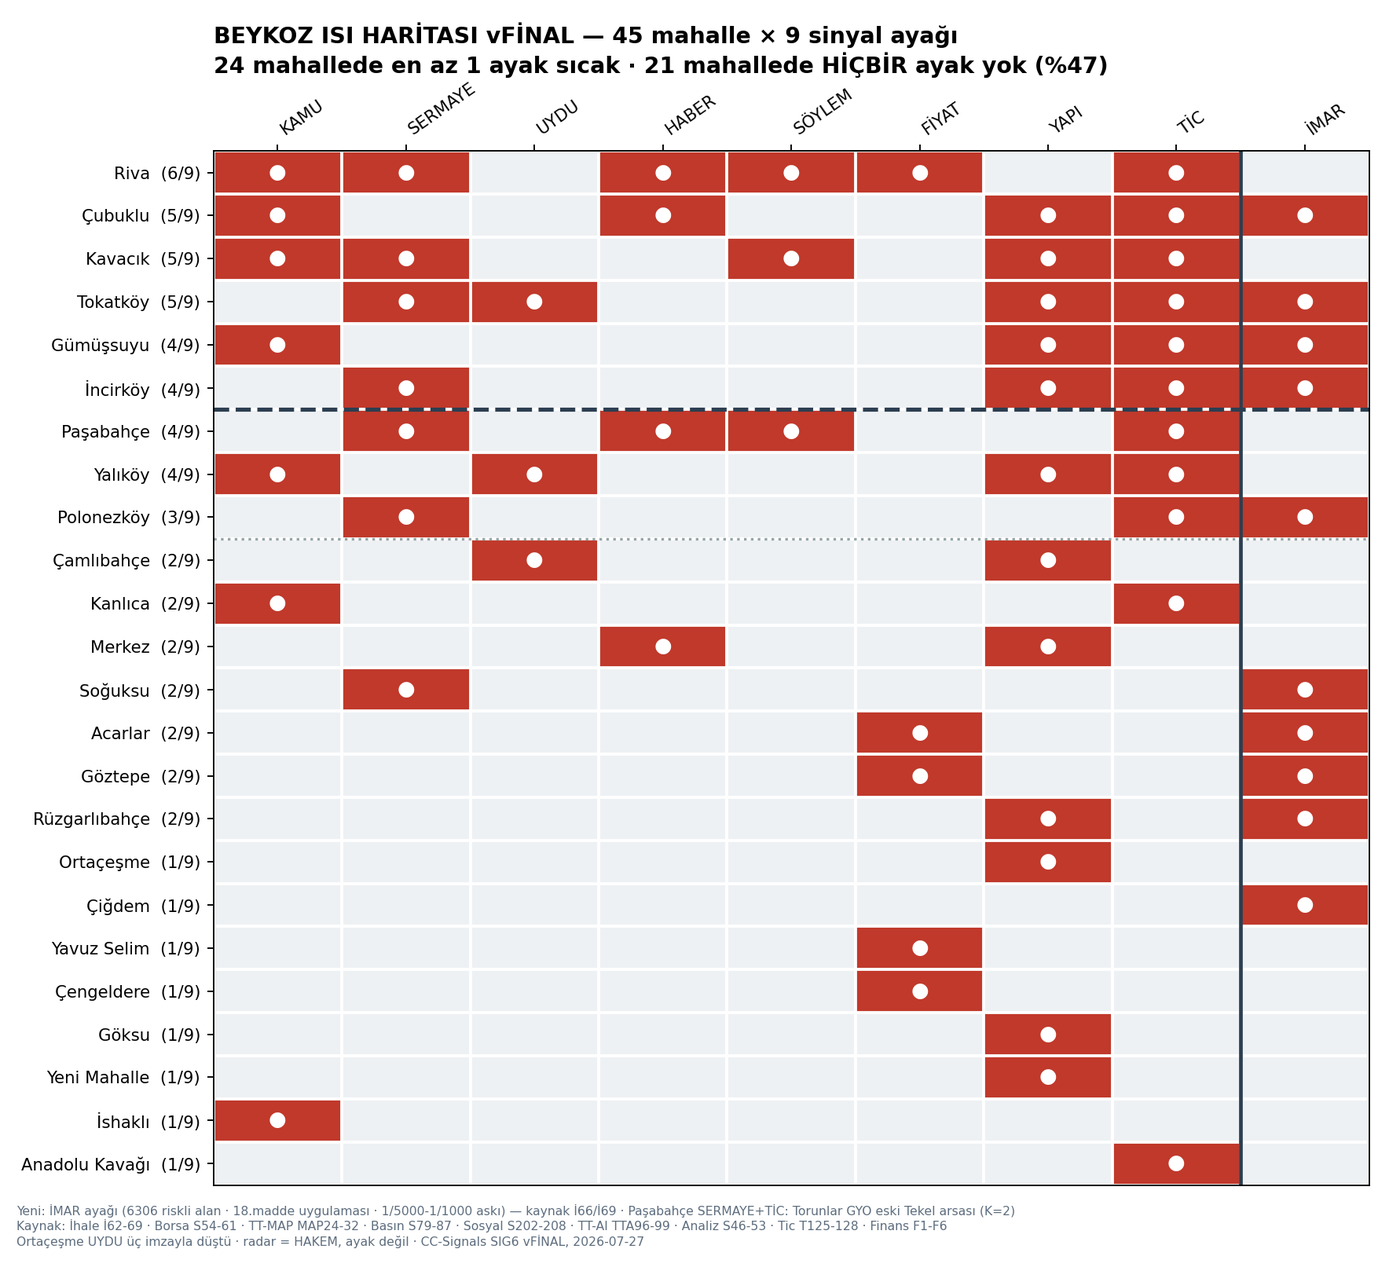
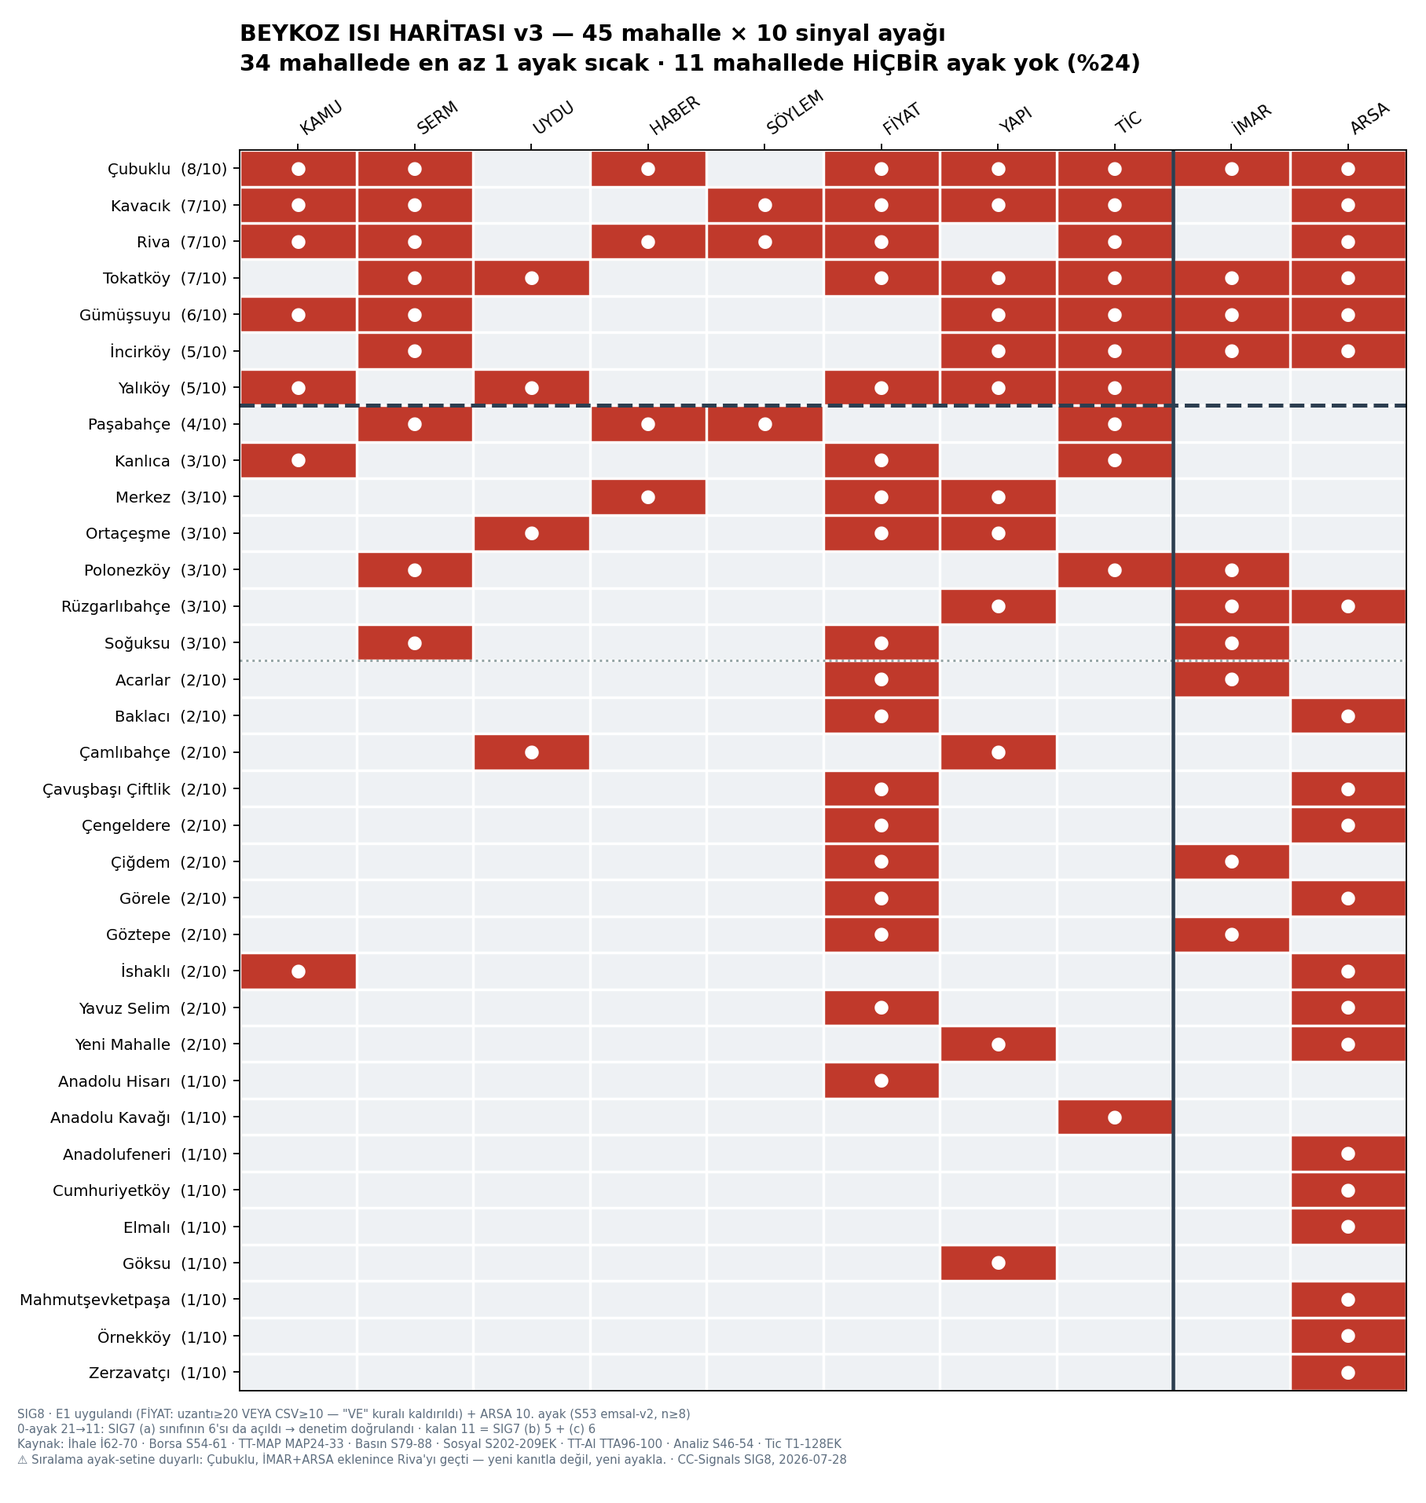
SIG8: sinyal-kanıtı v2 + E1/ARSA uygulaması
1) Isı v3 — E1 (FİYAT: uzKS>=20 VEYA CSV>=10, "VE" kaldırıldı) + ARSA
   10. ayak (S53 emsal-v2 n>=8). 0-ayak 21 -> 11 (%24).
   SIG7 denetimi doğrulandı: (a) sınıfının 6'sı da açıldı.
   UYARI: Çubuklu Riva'yı yeni kanıtla değil yeni ayakla geçti.
2) Sinyal-kanıtı v2 — sayfanın sorusu netleşti: "hangi bölgede, hangi
   tarihli olaydan sonra, m² + kira + brüt getiri + ödenme yılı ne?"
   13 satırlık bölge×tip×olay×getiri tablosu (yalnız S53 GÜÇLÜ hücreler).
   Şablon vakalar: Yavuz Selim %7,24/13,8y (hızlı amortisman adayı) ve
   Tokatköy %3,42/29,2y (7 ayak yanmış, getiri en düşük).
   ★ Örüntü: sinyal yoğunluğu ile getiri TERS gidiyor.
3) S54 düzeltmeleri: Cumhuriyet +8 ve Çiftlik +6 yanlış-pozitif elendi;
   17 mahalleye "tarandı-sıfır" damgası. S54'ün unicode bulgusu kayda
   geçti (mahalle_norm borcu).
4) Olay defteri senkron: BEY-18 Torunlar, BEY-19 Elmalı Barajı Havzası
   (TTA99 kritik-1 İSKİ havza sisteminin ilk fiilî uygulama örneği).
5) Basın haber-yoğunluğu ayağı tasarlandı ama ETKİNLEŞTİRİLMEDİ —
   sığ arşivi ağırlıklandırmak onu derin gösterir; arşiv derinliği
   bütçe kalemi olarak not edildi.

Changed region(s): [[0.0, 0.0, 0.9955, 1.0]]

diff --git a/beykoz_vaka/sig8_sinyal_kaniti_v2.md b/beykoz_vaka/sig8_sinyal_kaniti_v2.md
@@ -1,0 +1,241 @@
+# CC-Signals · SIG8 — SİNYAL KANITI v2
+## *"Hangi bölgede, hangi olaydan sonra, m² fiyatı ve amortisman nasıl davrandı?"*
+
+**Sprint:** SIG8 · **Tarih:** 2026-07-28 · **Üreten:** CC-Signals · **Denetleyen:** ☐ Üst Akıl
+**Dönem etiketi:** tüm m²/kira/getiri rakamları **`S48_UZANTI_2026-Haz-Tem`** · etiketsiz alıntılanamaz
+**Disiplin:** $0 · A04 · V16 · #21-B · #34 · SİLME-YOK
+
+---
+
+## 0. BU SAYFA NE ANLATIYOR — ve v1 neyi anlatamadı
+
+**v1'in kusuru:** *"Riva'da sinyal 2017'de göründü, 9 yıl 2 ay önden"* diyordu ama **9 yıl önden neyi gördüğümüzü** söylemiyordu. Yatırımcı için "öndelik" tek başına bir şey ifade etmez.
+
+**v2'nin sorusu tek:**
+
+> **Bir bölgede tarihli bir olay olduktan sonra, o bölgenin m² fiyatı, kirası ve amortisman süresi ne oldu?**
+
+Ve cevabı **tek tabloda** veriyor: **bölge × mülk tipi × olay × m² × kira × brüt getiri × ödenme yılı.**
+
+### ⚠ Sayfanın sınırı — önce bu
+
+| Sınır | Sonucu |
+|---|---|
+| **Beykoz için 2026-02 öncesi fiyat serisi YOK** (Analiz S51 kesin) | *"Olaydan sonra fiyat şu kadar arttı"* **hiçbir vakada söylenemez** |
+| Elimizdeki tek zaman farkı **4 ay** (Şub-May ↔ Haz-Tem 2026) | yalnız **iki dönem medyan farkı**, fiyat hareketi değil |
+| Getiri rakamları **ilan** fiyatı üzerinden, **brüt** | boşluk, aidat, vergi düşülmemiş; **net bunun belirgin altında** |
+| İlan bazlı fiyat takibi **n=1** (S51) | stokta kalma süresi, indirim izi **ölçülemiyor** |
+
+> ✅ **O hâlde ne söylüyoruz:** *"Olay şu tarihte oldu. Bugün o bölgede, o tipte m² şu, kira şu, brüt getiri şu, ödenme süresi şu."* **Olay ile bugünkü seviye arasındaki nedenselliği kurmuyoruz** — yan yana koyuyoruz ve okuru uyarıyoruz.
+
+---
+
+# 1. ★ ANA TABLO — bölge × tip × olay × getiri
+
+*(yalnız S53 **GÜÇLÜ** hücreler, n≥8 · sıralama: brüt getiri)*
+
+| Bölge | Tip | **Tarihli olay** | m² satılık | kira TL/m²/ay | **Brüt getiri** | **Ödenme** | Aday sınıfı |
+|---|---|---|---:|---:|---:|---:|---|
+| **Yavuz Selim** | villa | ⚖ **Çavuşbaşı plan davası REDDEDİLDİ** (2024-04, istinaf) — 6 mahallenin biri; planlar yürürlüğe döndü | 90.000 | 543 | **%7,24** | **13,8 yıl** | 🟢 **hızlı amortisman** |
+| **Acarlar** | konut-belirsiz | 🌲 özel orman (316/4 · ~1,8 M m² kat irtifaklı) · **1/5000 askıda** | 158.417 | 873 | %6,62 | 15,1 yıl | 🟢 hızlı amortisman |
+| **Göztepe** | villa | 🏛 **2760 ada 110 parsel 1/1000 KAUİP askıya çıktı** (21.07.2026) | 119.118 | 546 | %5,50 | 18,2 yıl | 🟡 orta |
+| **Kavacık** | daire | 🏗 **Kavacık Kavşağı imar planı** (Meclis 08.01.2026) + Medistate protokolü | 94.925 | 428 | %5,41 | 18,5 yıl | 🟡 orta |
+| **Acarlar** | daire | *(aynı olay — özel orman/askı)* | 227.600 | 1.000 | %5,27 | 19,0 yıl | 🟡 orta |
+| **Soğuksu** | daire | 💰 **Sur Yapı kentsel dönüşüm** girişi · **1/5000 askıda** | 151.724 | 650 | %5,14 | 19,5 yıl | 🟡 orta |
+| **Göztepe** | daire | *(aynı olay — 1/1000 askı)* | 110.000 | 450 | %4,91 | 20,4 yıl | 🟡 orta |
+| **Acarlar** | villa | *(aynı olay)* | 245.455 | 1.000 | **%4,89** | 20,5 yıl | 🔴 **yavaş** |
+| **Yalıköy** | daire | 🏫 Sait Taşçıoğlu İlkokulu **159,7 M TL** (2024) | 86.667 | 352 | %4,88 | 20,5 yıl | 🔴 yavaş |
+| **Riva** | villa | 🏠 **EKGYO yer teslimi 2025-04** · Metruk Otel→**Gençlik Kampı** 2026-07 · 3 mega proje | 164.141 | 633 | %4,63 | 21,6 yıl | 🔴 yavaş |
+| **Çiğdem** | daire | 🏘 **Maritza Vadi 2. Etap satışta** (Tem 2026) · 1/5000 askıda | 183.333 | 627 | %4,10 | 24,4 yıl | 🔴 yavaş |
+| **Çubuklu** | daire | 🎓 TAÜ kampüsü 19 ihale · 🏗 **riskli alan 5,6 ha, 18. madde askıda** | 138.014 | 405 | %3,52 | 28,4 yıl | 🔴 **en yavaş** |
+| **Tokatköy** | daire | 🏘 **EKGYO 2 etap teslim** (2022) · **dönüşüm alanı onaylı** · 1.071 tapu (29.06.2026) | 115.909 | 330 | **%3,42** | **29,2 yıl** | 🔴 **en yavaş** |
+
+**Referans çıpa:** İstanbul konut brüt getirisi **%6,09** (2026-Q2, TCMB, 34 çeyreklik seri) · dip 2022-Q2 %4,02.
+
+---
+
+# 2. İKİ ŞABLON VAKA — aynı madalyonun iki yüzü
+
+## 2.1 🟢 YAVUZ SELİM — *hızlı amortisman adayı*
+
+| | |
+|---|---|
+| **Olay** | ⚖ **2024-04:** Mimarlar Odası'nın Çavuşbaşı planlarına açtığı iptal davası **reddedildi**; 6 mahallenin (Çengeldere · Fatih · **Yavuz Selim** · Baklacı · Çiftlik · Görele) planları **yürürlüğe döndü** |
+| **Bugünkü tip-bazlı ölçüm** | villa satılık **90.000 TL/m²** · villa kira **543 TL/m²/ay** (n=12) |
+| **Brüt getiri** | **%7,24** — Beykoz'un ölçülmüş en yükseği, İstanbul çıpasının (%6,09) **1,2 katı** |
+| **Ödenme** | **13,8 yıl** |
+| **Arsa katmanı** | arsa satılık **30.943 TL/m² · n=37** — ilçenin en derin ikinci arsa hücresi |
+| **Isı** | 2/10 (FİYAT + ARSA) — kamu 0, sermaye 0, haber 0 |
+
+**Neden "hızlı amortisman adayı":** getiri yüksek çünkü **satış fiyatı düşük**, kira değil. Villa kirası (543) Göztepe'nin (546) neredeyse aynısı; ama satış fiyatı **90.000 ↔ 119.118** — yani **%25 daha ucuz.**
+
+> 🔴 **Ve madalyonun öbür yüzü — bunu atlamak yanlış olur:** Yavuz Selim aynı zamanda **§F4'te reel −%35,5** ile ilçenin en geride kalanı (nominal −%14,8, n 22→28, "sağlam" örneklem).
+> **İki okuma da aynı veriden çıkıyor:** *ucuz olduğu için getirisi yüksek* ↔ *ucuzluyor olduğu için riskli.* **SIG5'in "dip mi tuzak mı" sorusu tam burada ve hâlâ ayırt edilemedi.**
+> **Ayırt edici veri:** stokta kalma süresi (Analiz'de **n=1**, ölçülemiyor) · 3. dönem fiyat serisi · kamu/sermaye ayağının ısınıp ısınmayacağı.
+
+## 2.2 🔴 TOKATKÖY — *zincir tamamlandı, getiri en düşük*
+
+| | |
+|---|---|
+| **Olaylar (tarihli)** | 🏘 **2022-09/10:** EKGYO 1./2. Etap sözleşme **1,68 Mr TL** (yüklenici TURGUT) · **2026-01-08:** Meclis — dönüşüm alanı **onaylı ve yürürlükte** · **2026-06-29:** **1.071 tapu** hak sahiplerine teslim (CSB İstanbul) |
+| **Fiziksel** | NDVI **−0,134** — Beykoz'un **tek ölçülebilir yeşil kaybı** ⚠ *(kaybın çoğu 2015-20'de, sözleşmeden önce — zincir kurulmadı)* |
+| **Piyasa** | **15 ilan** "Emlak Konut projesi"ne atıflı, 15/15'i Tokatköy |
+| **Bugünkü ölçüm** | daire satılık **115.909 TL/m²** · kira **330 TL/m²/ay** |
+| **Brüt getiri** | **%3,42** — Beykoz'un **en düşüğü** |
+| **Ödenme** | **29,2 yıl** |
+| **Isı** | **7/10** — ilçenin en çok ayaklı üçüncüsü |
+
+> ★ **Sayfanın en öğretici satırı bu:** **Beykoz'da sinyali en çok yanan mahallelerden biri, getirisi en düşük olanıdır.**
+> **Sinyal yoğunluğu ≠ getiri.** Tokatköy'de sermaye geldi, dönüşüm onaylandı, tapular dağıtıldı, uydu değişimi ölçüldü, piyasada ilan çıktı — **on ayağın yedisi yandı** — ve brüt getiri **%3,42**, ödenme **29,2 yıl.**
+> **Muhtemel okuma (ölçüm değil, yorum):** olaylar **fiyata çoktan yansımış**; alıcı bugün *"olay olacak"* değil, *"olay oldu"* fiyatını ödüyor. **Bu bir hipotezdir** — doğrulaması, olay öncesi fiyat serisi gerektirir ve **o seri yok.**
+
+---
+
+# 3. ÜÇ ÖRÜNTÜ — tabloyu okuma anahtarı
+
+## 3.1 Getiri ile sinyal yoğunluğu **ters** gidiyor
+
+| Mahalle | Isı ayağı | Brüt getiri | Ödenme |
+|---|:-:|---:|---:|
+| Tokatköy | **7/10** | %3,42 | 29,2 yıl |
+| Çubuklu | **8/10** | %3,52 | 28,4 yıl |
+| Riva | **7/10** | %4,63 | 21,6 yıl |
+| Kavacık | **7/10** | %5,41 | 18,5 yıl |
+| **Yavuz Selim** | **2/10** | **%7,24** | **13,8 yıl** |
+| **Acarlar** *(konut-belirsiz)* | 2/10 | %6,62 | 15,1 yıl |
+
+> **Isı haritasının en yüksek dördü, getiri listesinin alt yarısında.** İki uçtaki mahalleler (Yavuz Selim, Acarlar) **2 ayaklı.**
+> ⚠ **Bu bir tavsiye değil, bir ölçüm:** yüksek getiri **düşük satış fiyatından** geliyor ve düşük fiyatın kendisi bir risk göstergesi olabilir (Yavuz Selim reel −%35,5). **İkisi aynı anda doğru.**
+
+## 3.2 Aynı mahallede tip farkı, getiriyi **1,4 kata** kadar değiştiriyor
+
+| Mahalle | Tip | m² | Getiri |
+|---|---|---:|---:|
+| Acarlar | konut-belirsiz | 158.417 | **%6,62** |
+| Acarlar | daire | 227.600 | %5,27 |
+| Acarlar | villa | 245.455 | **%4,89** |
+| Göztepe | villa | 119.118 | **%5,50** |
+| Göztepe | daire | 110.000 | %4,91 |
+
+> **Acarlar'da kira üç tipte de ~1.000 TL/m²/ay** — fark tamamen satış fiyatından. **"Acarlar'ın getirisi"** diye tek sayı yoktur; **tip sorulmadan getiri konuşulamaz.**
+
+## 3.3 Olay tipi ile getiri arasında **görünür bir ilişki yok**
+
+| Olay tipi | Örnek | Getiri aralığı |
+|---|---|---|
+| Yargı (plan onandı) | Yavuz Selim | **%7,24** |
+| İmar askısı | Göztepe · Soğuksu · Çiğdem | %4,10 – %5,50 |
+| Kamu mega yatırım | Çubuklu · Yalıköy | %3,52 – %4,88 |
+| Kentsel dönüşüm tamamlandı | Tokatköy | **%3,42** |
+
+> **Dört olay tipi, dört farklı getiri seviyesi — ama örneklem her hücrede 1-3 mahalle.** *"İmar askısı getiriyi şöyle etkiler"* denemez. **Bu tablo bir hipotez üreticisidir, bir kural değil.**
+
+---
+
+# 4. ISI v3 — E1 + ARSA uygulandı
+
+📊 [`cikti/beykoz_isi_haritasi.png`](cikti/beykoz_isi_haritasi.png) · 🔧 [`kod/isi_haritasi_SIG8.py`](kod/isi_haritasi_SIG8.py)
+
+| | SIG6 (9 ayak) | **SIG8 (10 ayak)** |
+|---|:-:|:-:|
+| **FİYAT kuralı** | CSV≥10 **VE** uzKS≥20 | **uzKS≥20 VEYA CSV≥10** *(E1)* |
+| **ARSA** | — | **10. ayak** — S53 arsa satılık n≥8 |
+| **0 ayaklı** | 21 | **11 (%24)** |
+| **Lider** | Riva 6/9 | **Çubuklu 8/10** |
+
+**Yeni sıralama:** Çubuklu **8** · Kavacık · Riva · Tokatköy **7** · Gümüşsuyu **6** · İncirköy · Yalıköy **5** · Paşabahçe **4**
+
+> ✅ **SIG7 denetimi doğrulandı:** (a) sınıfının **6'sı da açıldı** (Anadolu Hisarı · Baklacı · Çavuşbaşı Çiftlik · Görele · Mahmutşevketpaşa · Elmalı). Kalan 11 = SIG7'nin **(b) 5 + (c) 6**'sı — tam örtüşme.
+> 🔴 **Ama liderlik değişimi bir uyarıdır:** *Çubuklu, Riva'yı **yeni kanıtla değil, yeni ayakla** geçti.* İMAR ve ARSA eklenmesi Çubuklu'nun lehine çalıştı (riskli alan + arsa hücresi), Riva'nın ise UYDU'su hâlâ ölçülmüyor. **Sıralama ayak-setine duyarlıdır ve bu bir zayıflıktır.**
+
+## 4.1 S54 düzeltmeleri işlendi
+
+| Bulgu | Karar |
+|---|---|
+| **Cumhuriyet(köy) +8 ek bulgu** = *"Cumhuriyet Cad."* sokak adı | 🔴 **yanlış pozitif — sayılmadı** *(SIG1'in "Cumhuriyet Başsavcılığı" hatasının üçüncü akrabası)* |
+| **Çiftlik +6 ek** = *"çiftlik evi / çiftlik arazisi"* jenerik | 🔴 **yanlış pozitif — sayılmadı** |
+| Bozhane +1 · Anadolu Kavağı +1 | 🟡 gerçek şüphe, tekil — ayak değiştirmiyor |
+| **Diğer 17 mahallede ek bulgu = 0** | ✅ **"TARANDI-SIFIR" damgası** — arandı ve gerçekten yok |
+| ★ **S54'ün kendi V16'sı** | *"İlk sayımda 26 mahalle n=0 sanılmıştı; sebep **unicode combining işareti** (`Ali̇bahadir` ↔ `Alibahadır`). Norm sonrası **yalnız 3'ü tamamen boş**."* |
+
+> ★ **S54'ün bu düzeltmesi Signals'ın 21-sıfır iddiasını da bağımsız olarak sınadı** — ve ilan sayısı ekseninde 21 değil **5** soğuk mahalle buldu. **Fark meşru:** S54 yalnız **ilan adedini** sayıyor, ısı haritası **10 ayağı**. İkisi farklı soru soruyor; ama **S54'ün unicode bulgusu, benim mahalle_norm alias tablomun neden hâlâ elle yazıldığını** bir kez daha gösteriyor (#18 açık borcu).
+
+## 4.2 Olay defteri senkron — **BEY-19 = Elmalı**
+
+| ID | Olay | Değişiklik |
+|---|---|---|
+| **BEY-18** | ★ **Torunlar GYO — eski Tekel arsası** (Paşabahçe, 71.909 m², otel 2028) | ✅ numara **kesinleşti** |
+| **BEY-19** | **Elmalı 1-2 Barajı Havzası Koruma Planı** — İSKİ görüşlü sağlık-işyeri talebi (Meclis 04.05) | ✅ **kaydırıldı** (Basın defterinde BEY-18'di) |
+
+> ★ **BEY-19 önemli:** TTA99'un **kritik-1 borcu** olan İSKİ havza-koruma sisteminin **ilk fiilî uygulama örneği.** *"Elmalı 1-2 Barajı Havzası Koruma Planında Göl Koruma Alanında kalan kısımlarında... **İSKİ'nin görüşü alınmak kaydıyla**"* — havza koruması **aktif işlevde gözlemlendi.** Altı turdur aranan sistem, bir meclis gündem maddesinde göründü.
+> **Beykoz'un artık iki bilinen havza planı var:** BEY-17 (ÇŞB Riva Deresi) + **BEY-19 (Elmalı Barajı)**.
+
+---
+
+# 5. 🆕 BASIN HABER-YOĞUNLUĞU ISI AYAĞI — tasarım taslağı
+
+**Amaç:** HABER ayağı bugün ikili (≥2 haber = ●). Tic-ısı benzeri **yoğunluk** ölçüsüne çevirmek.
+
+## 5.1 Önerilen tanım
+
+```
+haber_isi(mahalle) = Σ [ haber_i × tip_ağırlığı × zaman_ağırlığı ]
+
+tip_ağırlığı:   imar/plan 3 · kamu yatırım 3 · sermaye/proje 2 ·
+                yönetişim 2 · ulaşım 1 · etkinlik/asayiş 0
+zaman_ağırlığı: son 3 ay 1,0 · 3-12 ay 0,6 · 12+ ay 0,3
+eşik:           ● = skor ≥ 3,0
+```
+
+## 5.2 Mevcut arşivle taslak sonuç *(54 kayıt, S80)*
+
+| Mahalle | Ham haber | Ağırlıklı skor *(taslak)* | Bugünkü HABER ayağı |
+|---|---:|---:|:-:|
+| **Riva** | 3+1 | ~**7,2** (Metruk Otel ×2 + Altınpark, hepsi son 3 ay) | ● |
+| Çubuklu | 3 | ~4,1 | ● |
+| Paşabahçe | 2 | ~3,6 (tapu töreni ×2) | ● |
+| Merkez | 2 | ~2,4 | ● *(eşiğin altına düşerdi)* |
+| Cumhuriyetköy | 1 | ~0,6 | · |
+
+> 🔴 **Ve taslağın kendi itirafı:** bu skor **54 kayıtlık, ~60 günlük ulusal + ~1 yıllık yerel** bir havuzdan hesaplanıyor. **35 mahalle temas-yok.** Ağırlıklandırma, **derinliği olmayan bir arşivin gürültüsünü rafine etmekten** öteye gitmez.
+
+## 5.3 💰 Arşiv derinliği — **bütçe kalemi notu**
+
+| Engel | Durum | Çözüm | Maliyet |
+|---|---|---|---|
+| **Wayback Machine** | 🔴 WebFetch tarafından **bloklu** — 2024 boşluğu 3 turdur kapanmıyor | alternatif arşiv erişimi | ? |
+| **Emlakkulisi** | 🔴 robots.txt disallow (kalıcı) | — | — |
+| **Beykoz Gazetesi** | 🔴 **arama işlevi yok** (8 sorgu, hepsi anasayfa döndü) | tam arşiv indirme | düşük |
+| **Ulusal havuz derinliği** | ~60 gün | **arşiv aboneliği** (AA / ajans) | 🔴 **bütçe kararı** |
+| **planaski.ibb.gov.tr** | 🔴 JS-form arka uçlu | form-post JSON geliştirme | geliştirme saati |
+
+> ★ **Dürüst değerlendirme:** **haber yoğunluğu ayağını bugünkü arşivle kurmayı ÖNERMİYORUM.** Ağırlıklandırma, sığ havuzu **derin gösterir** — ve bu, ölçüm katmanının yapabileceği en kötü şeydir. Ayak ancak **arşiv derinliği bütçelenirse** anlamlı olur.
+> **Taslak kayıtta duruyor** (§5.1 formülü hazır); **etkinleştirme kararı arşiv bütçesine bağlı.**
+
+---
+
+# 6. CEVAPLAYAMADIKLARIM · V16
+
+## Ölçemediklerim
+
+1. **Olay → fiyat nedenselliği hiçbir vakada kurulamadı** — 2026-02 öncesi Beykoz fiyat serisi yok. Bu sayfa **yan yana koyuyor**, bağlamıyor.
+2. **Stokta kalma süresi / indirim izi** — S51: gerçek çakışma **n=1**. "Dip mi tuzak mı" sorusunun en kritik verisi.
+3. **Net getiri** — hepsi brüt; boşluk, aidat, vergi düşülmedi.
+4. **Yavuz Selim paradoksu çözülmedi** — %7,24 getiri ↔ reel −%35,5. İki okuma da aynı veriden.
+5. **Olay tipi × getiri ilişkisi** — her hücrede 1-3 mahalle; kural çıkarılamaz.
+
+## V16 — kendi işime itiraz
+
+1. **🔴 Liderlik değişimi benim ayak seçimimden geldi.** Çubuklu, Riva'yı **yeni kanıtla değil, İMAR + ARSA ayaklarının eklenmesiyle** geçti. Ayak seti değişince sıralama değişiyor — **bu, ısı haritasının yapısal zayıflığı** ve gizlemiyorum.
+2. **ARSA ayağını ben önerdim, ben uyguladım.** SIG7'de *"karar Üst Akıl'da"* demiştim, onay geldi — ama **eşiği (n≥8) yine ben seçtim.** n≥12 seçseydim 4 mahalle daha az açılırdı.
+3. **§3.1'deki "getiri ile sinyal ters gidiyor" örüntüsü 6 gözleme dayanıyor.** Örüntü çarpıcı ama **istatistik değil**; ters yönde bir örnek (Kavacık 7 ayak / %5,41) zaten var.
+4. **Tokatköy yorumunu ("olay fiyata çoktan yansımış") hipotez olarak etiketledim** — doğrulaması olay öncesi fiyat serisi gerektirir ve o seri yok. **Yine de bu, sayfanın en çekici cümlesi ve okuyucu onu olgu sanabilir.**
+5. **Haber-yoğunluğu ayağını tasarladım ama etkinleştirmemeyi önerdim.** Bu tutarsız görünebilir; gerekçem §5.3'te: **sığ arşivi rafine etmek onu derin göstermektir.**
+6. **S54 ilan ekseninde 5 soğuk mahalle buldu, ben 10 ayakta 11 buldum.** İkisi farklı soru soruyor ve ikisi de doğru — **ama dışarıdan bakan bunu çelişki sanabilir.** Bu yüzden §4.1'e açıkça yazdım.
+7. **KVKK #31:** §1-§2'de kamu görevlisi/kurum adları geçiyor; arşiv public (Patron kararı 27.07), **dış-sunum maskelemesi ayrı karar.**
+
+---
+
+**Kaynaklar (#21-B):** CC-Analiz **S53 emsal-v2** (84 GÜÇLÜ hücre) · **S54** (21-mahalle ilan denetimi + unicode düzeltmesi) · S48/S51 · CC-İhale **İ62-70** · CC-Basın **S80-88** (olay defteri v6, 19 olay) · CC-Borsa S54-61 · CC-TT-MAP MAP24-33 · CC-TT-AI TTA96-100 · CC-Tic T1-128EK · CC-Finans F4-F6 · CC-Signals SIG5-SIG7
+**Üreten:** CC-Signals SIG8 · **Denetleyen:** ☐ Üst Akıl
+**$0 · A04 · V16 · #21-B · #34 · dönem etiketi zorunlu · SİLME-YOK**

diff --git a/beykoz_vaka/beykoz_master.md b/beykoz_vaka/beykoz_master.md
@@ -74,6 +74,9 @@
 
 **Dağılım:** 6→1 · 5→3 · 4→4 · 3→1 · 2→7 · 1→8 · **0→21 (%47)**
 
+> ✅ **SIG8 (28.07) — E1 + ARSA 10. ayak UYGULANDI (ÜA onayı):** FİYAT kuralı *"CSV≥10 **VE** uzKS≥20"* → **"uzKS≥20 VEYA CSV≥10"**; **ARSA 10. ayak** eklendi (S53 emsal-v2, n≥8). **0 ayaklı 21 → 11 (%24).** Yeni sıralama: **Çubuklu 8/10** · Kavacık · Riva · Tokatköy **7** · Gümüşsuyu 6 · İncirköy · Yalıköy 5 · Paşabahçe 4. **SIG7 denetimi doğrulandı** — (a) sınıfının 6'sı da açıldı, kalan 11 = (b)5 + (c)6, tam örtüşme.
+> 🔴 **Uyarı:** *Çubuklu, Riva'yı **yeni kanıtla değil, yeni ayakla** geçti* (İMAR + ARSA lehine çalıştı; Riva'nın UYDU'su hâlâ ölçülmüyor). **Sıralama ayak-setine duyarlıdır.** Detay: [`sig8_sinyal_kaniti_v2.md`](sig8_sinyal_kaniti_v2.md)
+
 > 🔍 **SIG7 denetimi (28.07):** 21 sıfır mahalle tek tek yeniden sorgulandı → **6'sı eşik/bağlantı hatası** (veri var, ayak yanmadı — Anadolu Hisarı · Baklacı · Çavuşbaşı Çiftlik · Görele · Mahmutşevketpaşa · Elmalı) · **9'u kanal körlüğü** · **6'sı gerçek sessiz.** ★ **Beykoz'un ölçülmüş en pahalı hücresi (yalı-köşk 545.455 TL/m², n=9) 0 ayaklı bir mahallede duruyordu** — FİYAT ayağının *"CSV≥10 **VE** uzantı≥20"* kuralı zayıf kaynağı bağlayıcı yapıyor, ve **S53 emsal v2 ısıya hiç bağlı değil.** **Eşik bu turda DEĞİŞTİRİLMEDİ** (karar Üst Akıl'da); E1 onaylanırsa 0-ayak **21→17**. Detay: [`sig7_21_denetim.md`](sig7_21_denetim.md)
 
 ### İMAR ayağını taşıyan 10 mahalle
